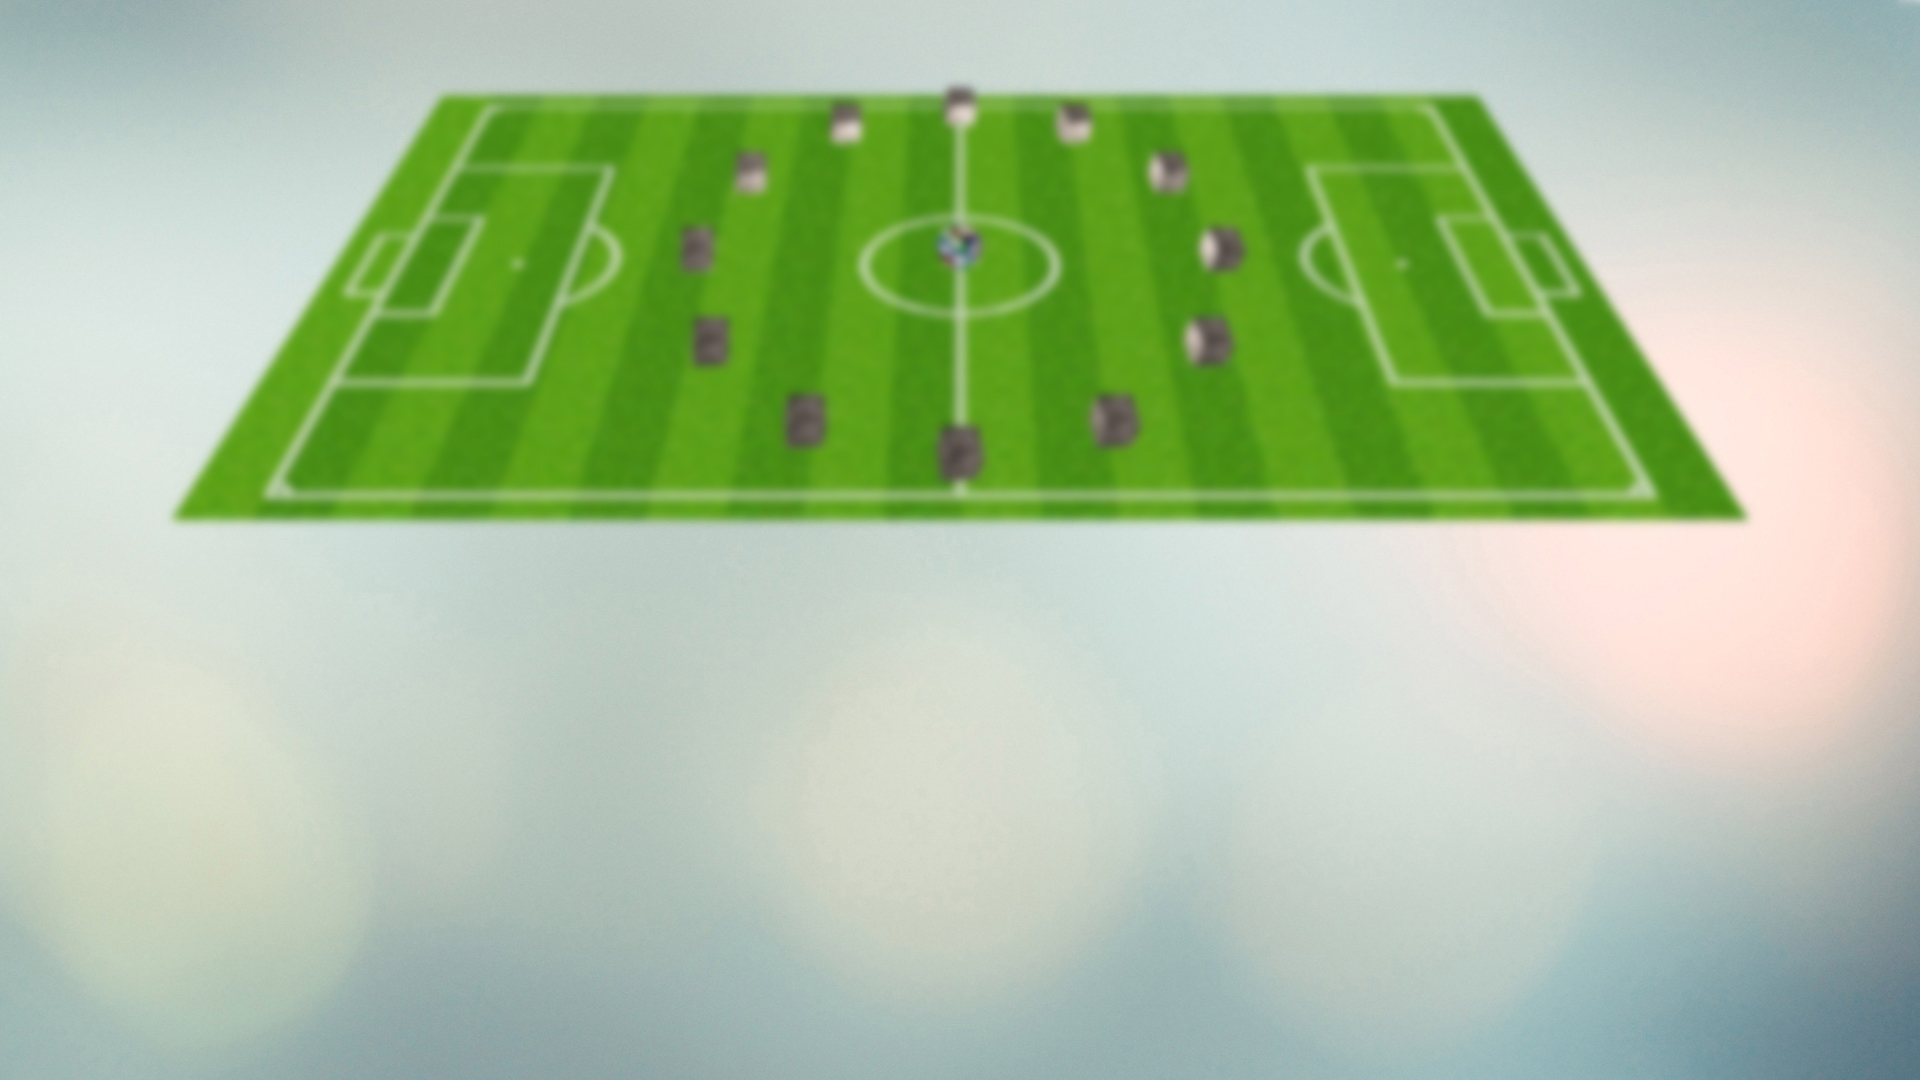
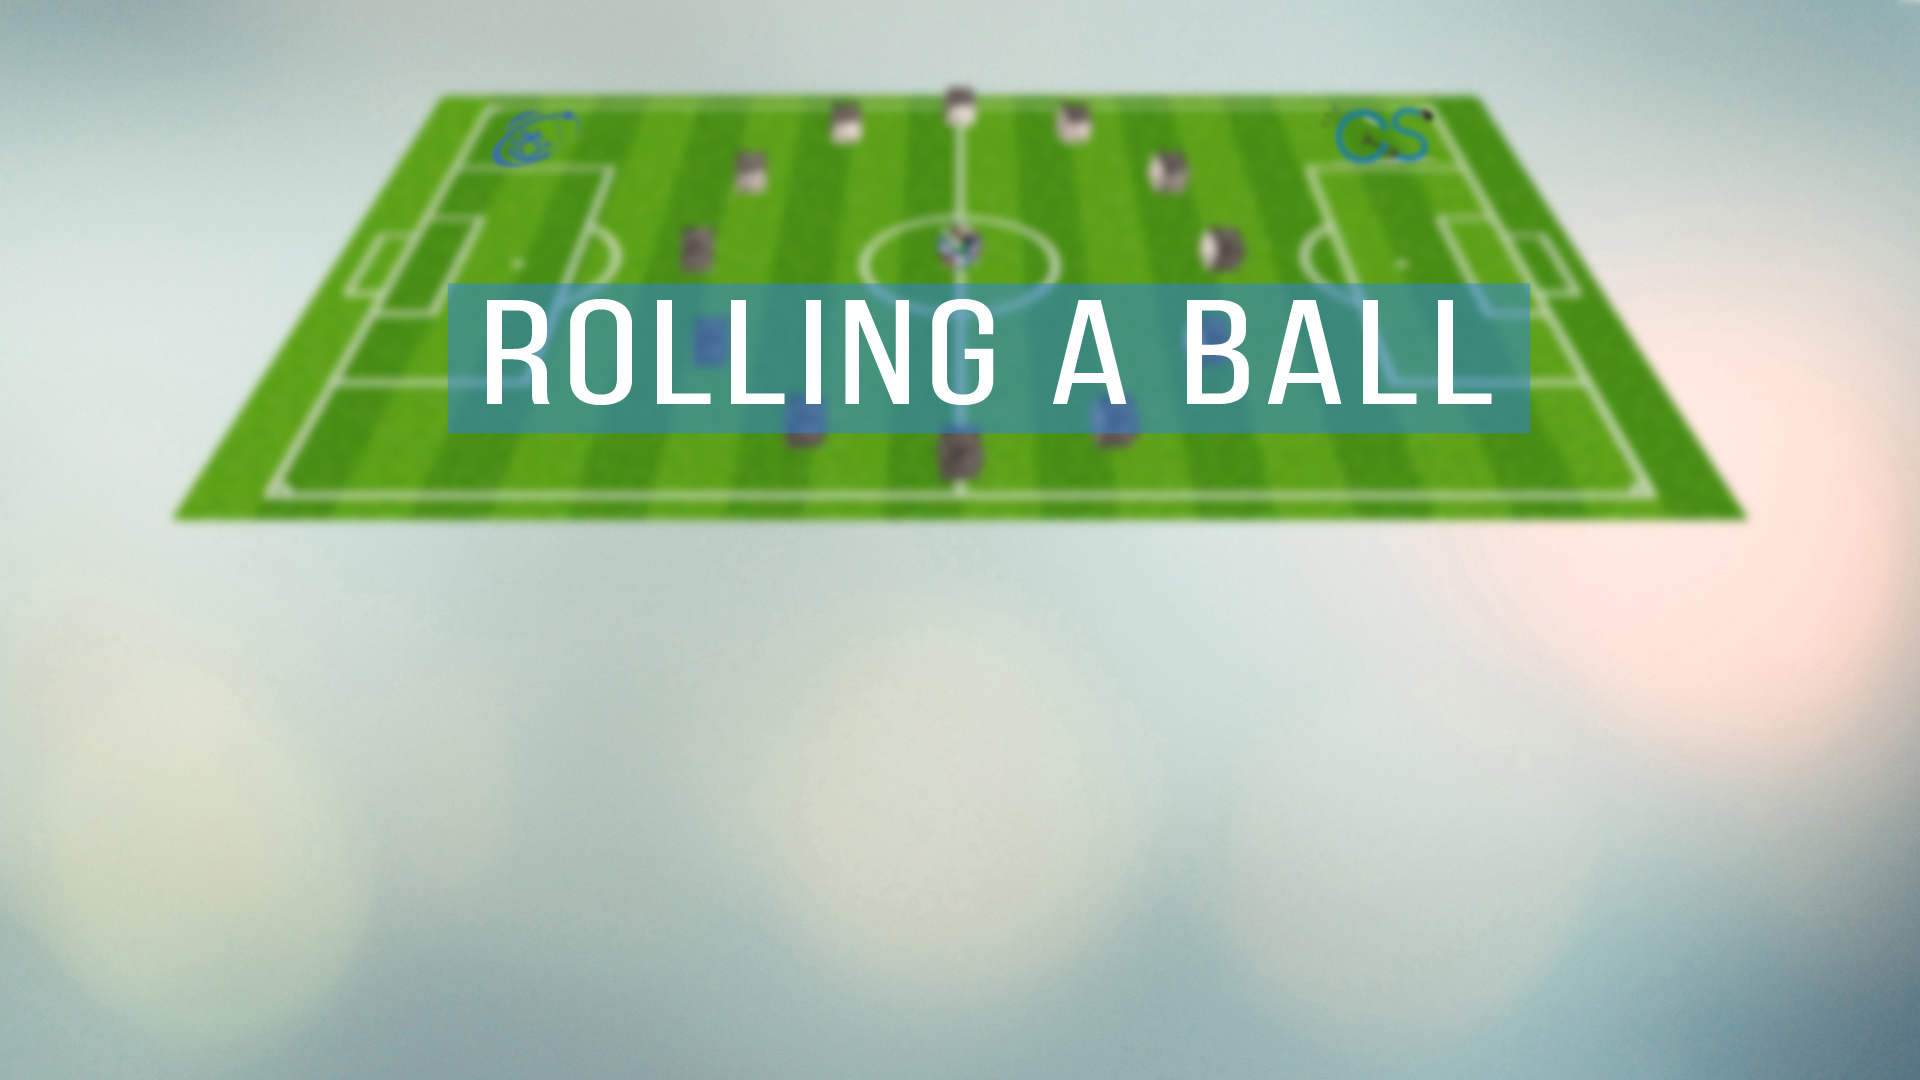
Edit BG, Camera, and Light.

Changed region(s): [[0.2188, 0.2444, 0.8125, 0.4278], [0.6875, 0.0917, 0.75, 0.1528], [0.25, 0.0917, 0.3125, 0.1528]]

diff --git a/libs/DMCore.js b/libs/DMCore.js
@@ -276,7 +276,7 @@
             this.gl.enableVertexAttribArray(this.Program.textureCoord);
             this.gl.uniform3fv(this.Program.lightPosition, [0, 0, 2]);
             this.gl.uniform3fv(this.Program.lightColor, [0.2, 0.2, 0.2]);
-            this.gl.uniform3fv(this.Program.ambientColor, [0.6, 0.6, 0.6]);
+            this.gl.uniform3fv(this.Program.ambientColor, [0.8, 0.8, 0.8]);
             for (var i = 0; i < this.geometry.length; i++) {
                 if (this.geometry[i] === undefined) {
                     continue;

diff --git a/libs/Run.js b/libs/Run.js
@@ -21,7 +21,7 @@ function webGLStart() {
     Test.addProgramShader();
 
     Camera = new DMCore.PerspectiveCamera(45, window.innerWidth / window.innerHeight, 0.1, 10000.0);
-    Camera.translate(0.0, 1.0, -3);
+    Camera.translate(0.0, 1.0, -4);
     Camera.rotate((-1 / 3) * Math.PI, 1, 0, 0);
     Camera.lookat(0, 0, 1, 0, 0, 0, 0, 1, 0);
     Test.add(Camera);
